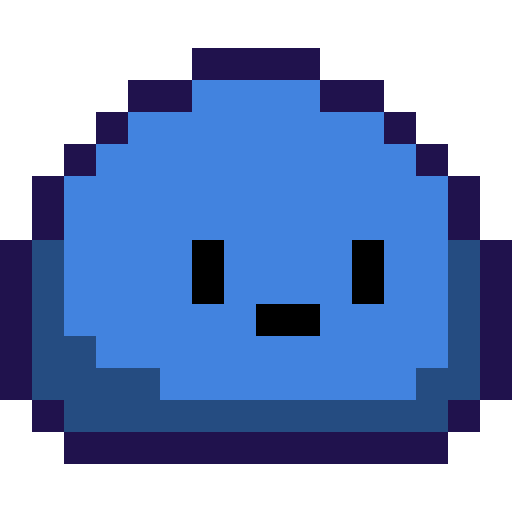
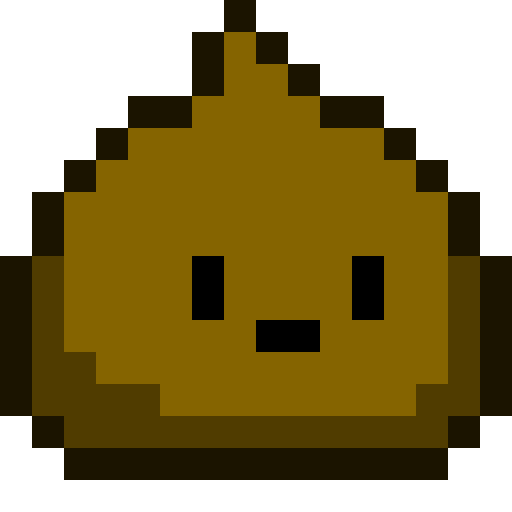
HUGE major update. Added 10 tower assets in 4 level.

diff --git a/src/client.ts b/src/client.ts
@@ -79,7 +79,22 @@ class Assets {
     }
     private loadImages() {
         const assetsFolder = "./assets/";
-        const imageNames = ["thunder.png", "wind.png", "empty.png", "stats.png", "map1.png", "poop0.png", "poop1.png", "bat.png", "slime.png", "addTower.png", "fire.png", "ice.png", "earth.png"];
+        const imageNames = ["black1.png", "black2.png", "black3.png", "black4.png",
+                            "blue1.png", "blue2.png", "blue3.png", "blue4.png",
+                            "green1.png", "green2.png", "green3.png", "green4.png",
+                            "orange1.png", "orange2.png", "orange3.png", "orange4.png",
+                            "pink1.png", "pink2.png", "pink3.png", "pink4.png",
+                            "red1.png", "red2.png", "red3.png", "red4.png",
+                            "violet1.png", "violet2.png", "violet3.png", "violet4.png",
+                            "white1.png", "white2.png", "white3.png", "white4.png",
+                            "yellow1.png", "yellow2.png", "yellow3.png", "yellow4.png",
+                            "ygreen1.png", "ygreen2.png", "ygreen3.png", "ygreen4.png",
+                            "addTower.png", "empty.png", "stats.png", "map1.png",
+                            "poop0.png", "poop1.png",
+                            "bslime0.png", "bslime1.png",
+                            "gslime0.png", "gslime1.png",
+                            "yslime0.png", "yslime1.png",
+                            "rslime0.png", "rslime1.png"];
 
         for (const name of imageNames) {
             const key = name.split(".")[0];
@@ -230,20 +245,20 @@ function drawButtons() {
     // Towers
     for (let i = 0; i < player1.deck.length && i < player2.deck.length; i++) {
         ctx.drawImage(assets.getImage("empty")!, tile * (0.5 + i) - 35, canvas.height - tile * 0.75 - 35, 70, 70);
-        ctx.drawImage(assets.getImage(player1.deck[i].type)!, tile * (0.5 + i) - 18, canvas.height - tile * 0.85 - 18, 36, 36);
+        ctx.drawImage(assets.getImage(`${player1.deck[i].type}${player1.deck[i].level.toString()}`)!, tile * (0.5 + i) - 18, canvas.height - tile * 0.85 - 18, 36, 36);
         ctx.fillText(`lv. ${player1.deck[i].level.toString()}`, tile * (0.5 + i), canvas.height - tile * 0.45, 50);
         ctx.drawImage(assets.getImage("empty")!, tile * (10.5 + i) - 35, canvas.height - tile * 0.75 - 35, 70, 70);
-        ctx.drawImage(assets.getImage(player2.deck[i].type)!, tile * (10.5 + i) - 18, canvas.height - tile * 0.85 - 18, 36, 36);
+        ctx.drawImage(assets.getImage(`${player2.deck[i].type}${player2.deck[i].level.toString()}`)!, tile * (10.5 + i) - 18, canvas.height - tile * 0.85 - 18, 36, 36);
         ctx.fillText(`lv. ${player2.deck[i].level.toString()}`, tile * (10.5 + i), canvas.height - tile * 0.45, 50);
     }
 }
 
 function drawTowers() {
     player1.board.forEach(tower => {
-        ctx.drawImage(assets.getImage(tower.tower.type)!, tile * (1 + tower.pos % 4), tile * (2 + Math.floor(tower.pos / 4)), tile, tile);
+        ctx.drawImage(assets.getAnImage(`${tower.tower.type}${tower.tower.level.toString()}`)!, tile * (1 + tower.pos % 4), tile * (2 + Math.floor(tower.pos / 4)), tile, tile);
     });
     player2.board.forEach(tower => {
-        ctx.drawImage(assets.getImage(tower.tower.type)!, tile * (10 + tower.pos % 4), tile * (2 + Math.floor(tower.pos / 4)), tile, tile);
+        ctx.drawImage(assets.getAnImage(`${tower.tower.type}${tower.tower.level.toString()}`)!, tile * (10 + tower.pos % 4), tile * (2 + Math.floor(tower.pos / 4)), tile, tile);
     });
 }
 

diff --git a/public/client.js b/public/client.js
@@ -59,7 +59,22 @@ var Assets = /** @class */ (function () {
     }
     Assets.prototype.loadImages = function () {
         var assetsFolder = "./assets/";
-        var imageNames = ["thunder.png", "wind.png", "empty.png", "stats.png", "map1.png", "poop0.png", "poop1.png", "bat.png", "slime.png", "addTower.png", "fire.png", "ice.png", "earth.png"];
+        var imageNames = ["black1.png", "black2.png", "black3.png", "black4.png",
+            "blue1.png", "blue2.png", "blue3.png", "blue4.png",
+            "green1.png", "green2.png", "green3.png", "green4.png",
+            "orange1.png", "orange2.png", "orange3.png", "orange4.png",
+            "pink1.png", "pink2.png", "pink3.png", "pink4.png",
+            "red1.png", "red2.png", "red3.png", "red4.png",
+            "violet1.png", "violet2.png", "violet3.png", "violet4.png",
+            "white1.png", "white2.png", "white3.png", "white4.png",
+            "yellow1.png", "yellow2.png", "yellow3.png", "yellow4.png",
+            "ygreen1.png", "ygreen2.png", "ygreen3.png", "ygreen4.png",
+            "addTower.png", "empty.png", "stats.png", "map1.png",
+            "poop0.png", "poop1.png",
+            "bslime0.png", "bslime1.png",
+            "gslime0.png", "gslime1.png",
+            "yslime0.png", "yslime1.png",
+            "rslime0.png", "rslime1.png"];
         for (var _i = 0, imageNames_1 = imageNames; _i < imageNames_1.length; _i++) {
             var name_1 = imageNames_1[_i];
             var key = name_1.split(".")[0];
@@ -204,19 +219,19 @@ function drawButtons() {
     // Towers
     for (var i = 0; i < player1.deck.length && i < player2.deck.length; i++) {
         ctx.drawImage(assets.getImage("empty"), tile * (0.5 + i) - 35, canvas.height - tile * 0.75 - 35, 70, 70);
-        ctx.drawImage(assets.getImage(player1.deck[i].type), tile * (0.5 + i) - 18, canvas.height - tile * 0.85 - 18, 36, 36);
+        ctx.drawImage(assets.getImage("".concat(player1.deck[i].type).concat(player1.deck[i].level.toString())), tile * (0.5 + i) - 18, canvas.height - tile * 0.85 - 18, 36, 36);
         ctx.fillText("lv. ".concat(player1.deck[i].level.toString()), tile * (0.5 + i), canvas.height - tile * 0.45, 50);
         ctx.drawImage(assets.getImage("empty"), tile * (10.5 + i) - 35, canvas.height - tile * 0.75 - 35, 70, 70);
-        ctx.drawImage(assets.getImage(player2.deck[i].type), tile * (10.5 + i) - 18, canvas.height - tile * 0.85 - 18, 36, 36);
+        ctx.drawImage(assets.getImage("".concat(player2.deck[i].type).concat(player2.deck[i].level.toString())), tile * (10.5 + i) - 18, canvas.height - tile * 0.85 - 18, 36, 36);
         ctx.fillText("lv. ".concat(player2.deck[i].level.toString()), tile * (10.5 + i), canvas.height - tile * 0.45, 50);
     }
 }
 function drawTowers() {
     player1.board.forEach(function (tower) {
-        ctx.drawImage(assets.getImage(tower.tower.type), tile * (1 + tower.pos % 4), tile * (2 + Math.floor(tower.pos / 4)), tile, tile);
+        ctx.drawImage(assets.getAnImage("".concat(tower.tower.type).concat(tower.tower.level.toString())), tile * (1 + tower.pos % 4), tile * (2 + Math.floor(tower.pos / 4)), tile, tile);
     });
     player2.board.forEach(function (tower) {
-        ctx.drawImage(assets.getImage(tower.tower.type), tile * (10 + tower.pos % 4), tile * (2 + Math.floor(tower.pos / 4)), tile, tile);
+        ctx.drawImage(assets.getAnImage("".concat(tower.tower.type).concat(tower.tower.level.toString())), tile * (10 + tower.pos % 4), tile * (2 + Math.floor(tower.pos / 4)), tile, tile);
     });
 }
 function drawTemplate() {

diff --git a/dist/client.js b/dist/client.js
@@ -54,7 +54,22 @@ class Assets {
     }
     loadImages() {
         const assetsFolder = "./assets/";
-        const imageNames = ["thunder.png", "wind.png", "empty.png", "stats.png", "map1.png", "poop0.png", "poop1.png", "bat.png", "slime.png", "addTower.png", "fire.png", "ice.png", "earth.png"];
+        const imageNames = ["black1.png", "black2.png", "black3.png", "black4.png",
+            "blue1.png", "blue2.png", "blue3.png", "blue4.png",
+            "green1.png", "green2.png", "green3.png", "green4.png",
+            "orange1.png", "orange2.png", "orange3.png", "orange4.png",
+            "pink1.png", "pink2.png", "pink3.png", "pink4.png",
+            "red1.png", "red2.png", "red3.png", "red4.png",
+            "violet1.png", "violet2.png", "violet3.png", "violet4.png",
+            "white1.png", "white2.png", "white3.png", "white4.png",
+            "yellow1.png", "yellow2.png", "yellow3.png", "yellow4.png",
+            "ygreen1.png", "ygreen2.png", "ygreen3.png", "ygreen4.png",
+            "addTower.png", "empty.png", "stats.png", "map1.png",
+            "poop0.png", "poop1.png",
+            "bslime0.png", "bslime1.png",
+            "gslime0.png", "gslime1.png",
+            "yslime0.png", "yslime1.png",
+            "rslime0.png", "rslime1.png"];
         for (const name of imageNames) {
             const key = name.split(".")[0];
             const img = new Image();
@@ -197,19 +212,19 @@ function drawButtons() {
     // Towers
     for (let i = 0; i < player1.deck.length && i < player2.deck.length; i++) {
         ctx.drawImage(assets.getImage("empty"), tile * (0.5 + i) - 35, canvas.height - tile * 0.75 - 35, 70, 70);
-        ctx.drawImage(assets.getImage(player1.deck[i].type), tile * (0.5 + i) - 18, canvas.height - tile * 0.85 - 18, 36, 36);
+        ctx.drawImage(assets.getImage(`${player1.deck[i].type}${player1.deck[i].level.toString()}`), tile * (0.5 + i) - 18, canvas.height - tile * 0.85 - 18, 36, 36);
         ctx.fillText(`lv. ${player1.deck[i].level.toString()}`, tile * (0.5 + i), canvas.height - tile * 0.45, 50);
         ctx.drawImage(assets.getImage("empty"), tile * (10.5 + i) - 35, canvas.height - tile * 0.75 - 35, 70, 70);
-        ctx.drawImage(assets.getImage(player2.deck[i].type), tile * (10.5 + i) - 18, canvas.height - tile * 0.85 - 18, 36, 36);
+        ctx.drawImage(assets.getImage(`${player2.deck[i].type}${player2.deck[i].level.toString()}`), tile * (10.5 + i) - 18, canvas.height - tile * 0.85 - 18, 36, 36);
         ctx.fillText(`lv. ${player2.deck[i].level.toString()}`, tile * (10.5 + i), canvas.height - tile * 0.45, 50);
     }
 }
 function drawTowers() {
     player1.board.forEach(tower => {
-        ctx.drawImage(assets.getImage(tower.tower.type), tile * (1 + tower.pos % 4), tile * (2 + Math.floor(tower.pos / 4)), tile, tile);
+        ctx.drawImage(assets.getAnImage(`${tower.tower.type}${tower.tower.level.toString()}`), tile * (1 + tower.pos % 4), tile * (2 + Math.floor(tower.pos / 4)), tile, tile);
     });
     player2.board.forEach(tower => {
-        ctx.drawImage(assets.getImage(tower.tower.type), tile * (10 + tower.pos % 4), tile * (2 + Math.floor(tower.pos / 4)), tile, tile);
+        ctx.drawImage(assets.getAnImage(`${tower.tower.type}${tower.tower.level.toString()}`), tile * (10 + tower.pos % 4), tile * (2 + Math.floor(tower.pos / 4)), tile, tile);
     });
 }
 function drawTemplate() {
